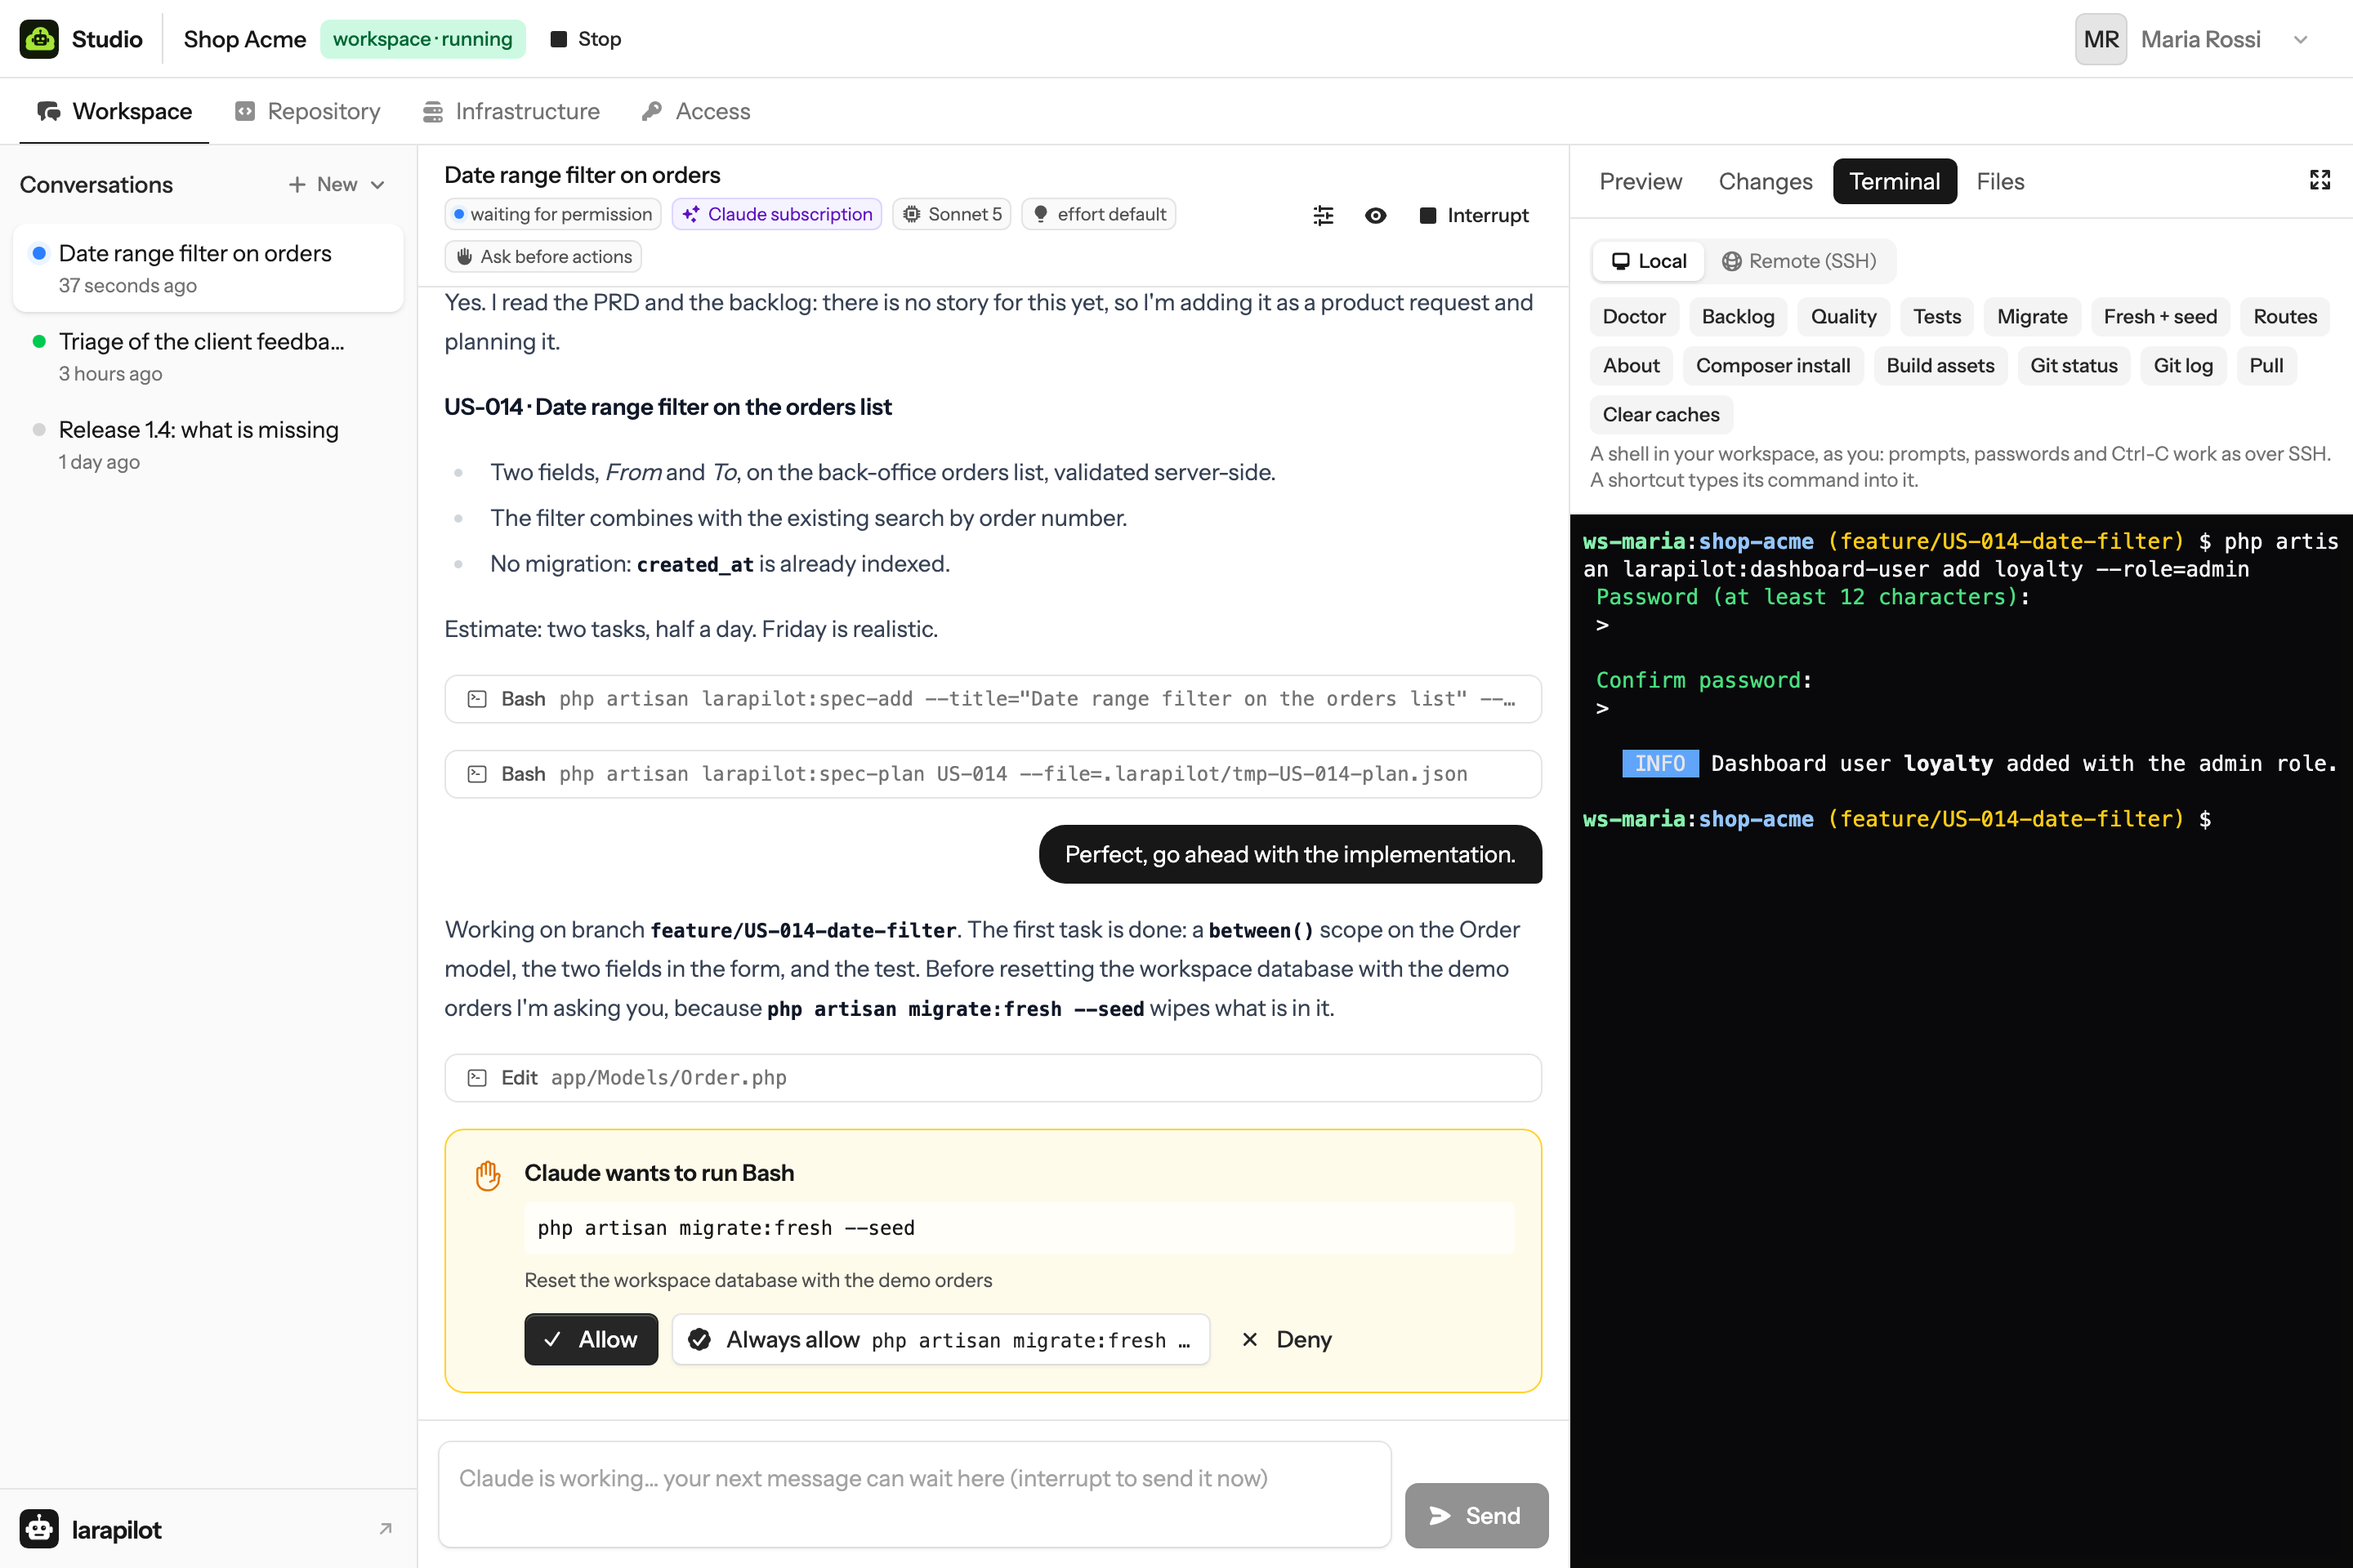
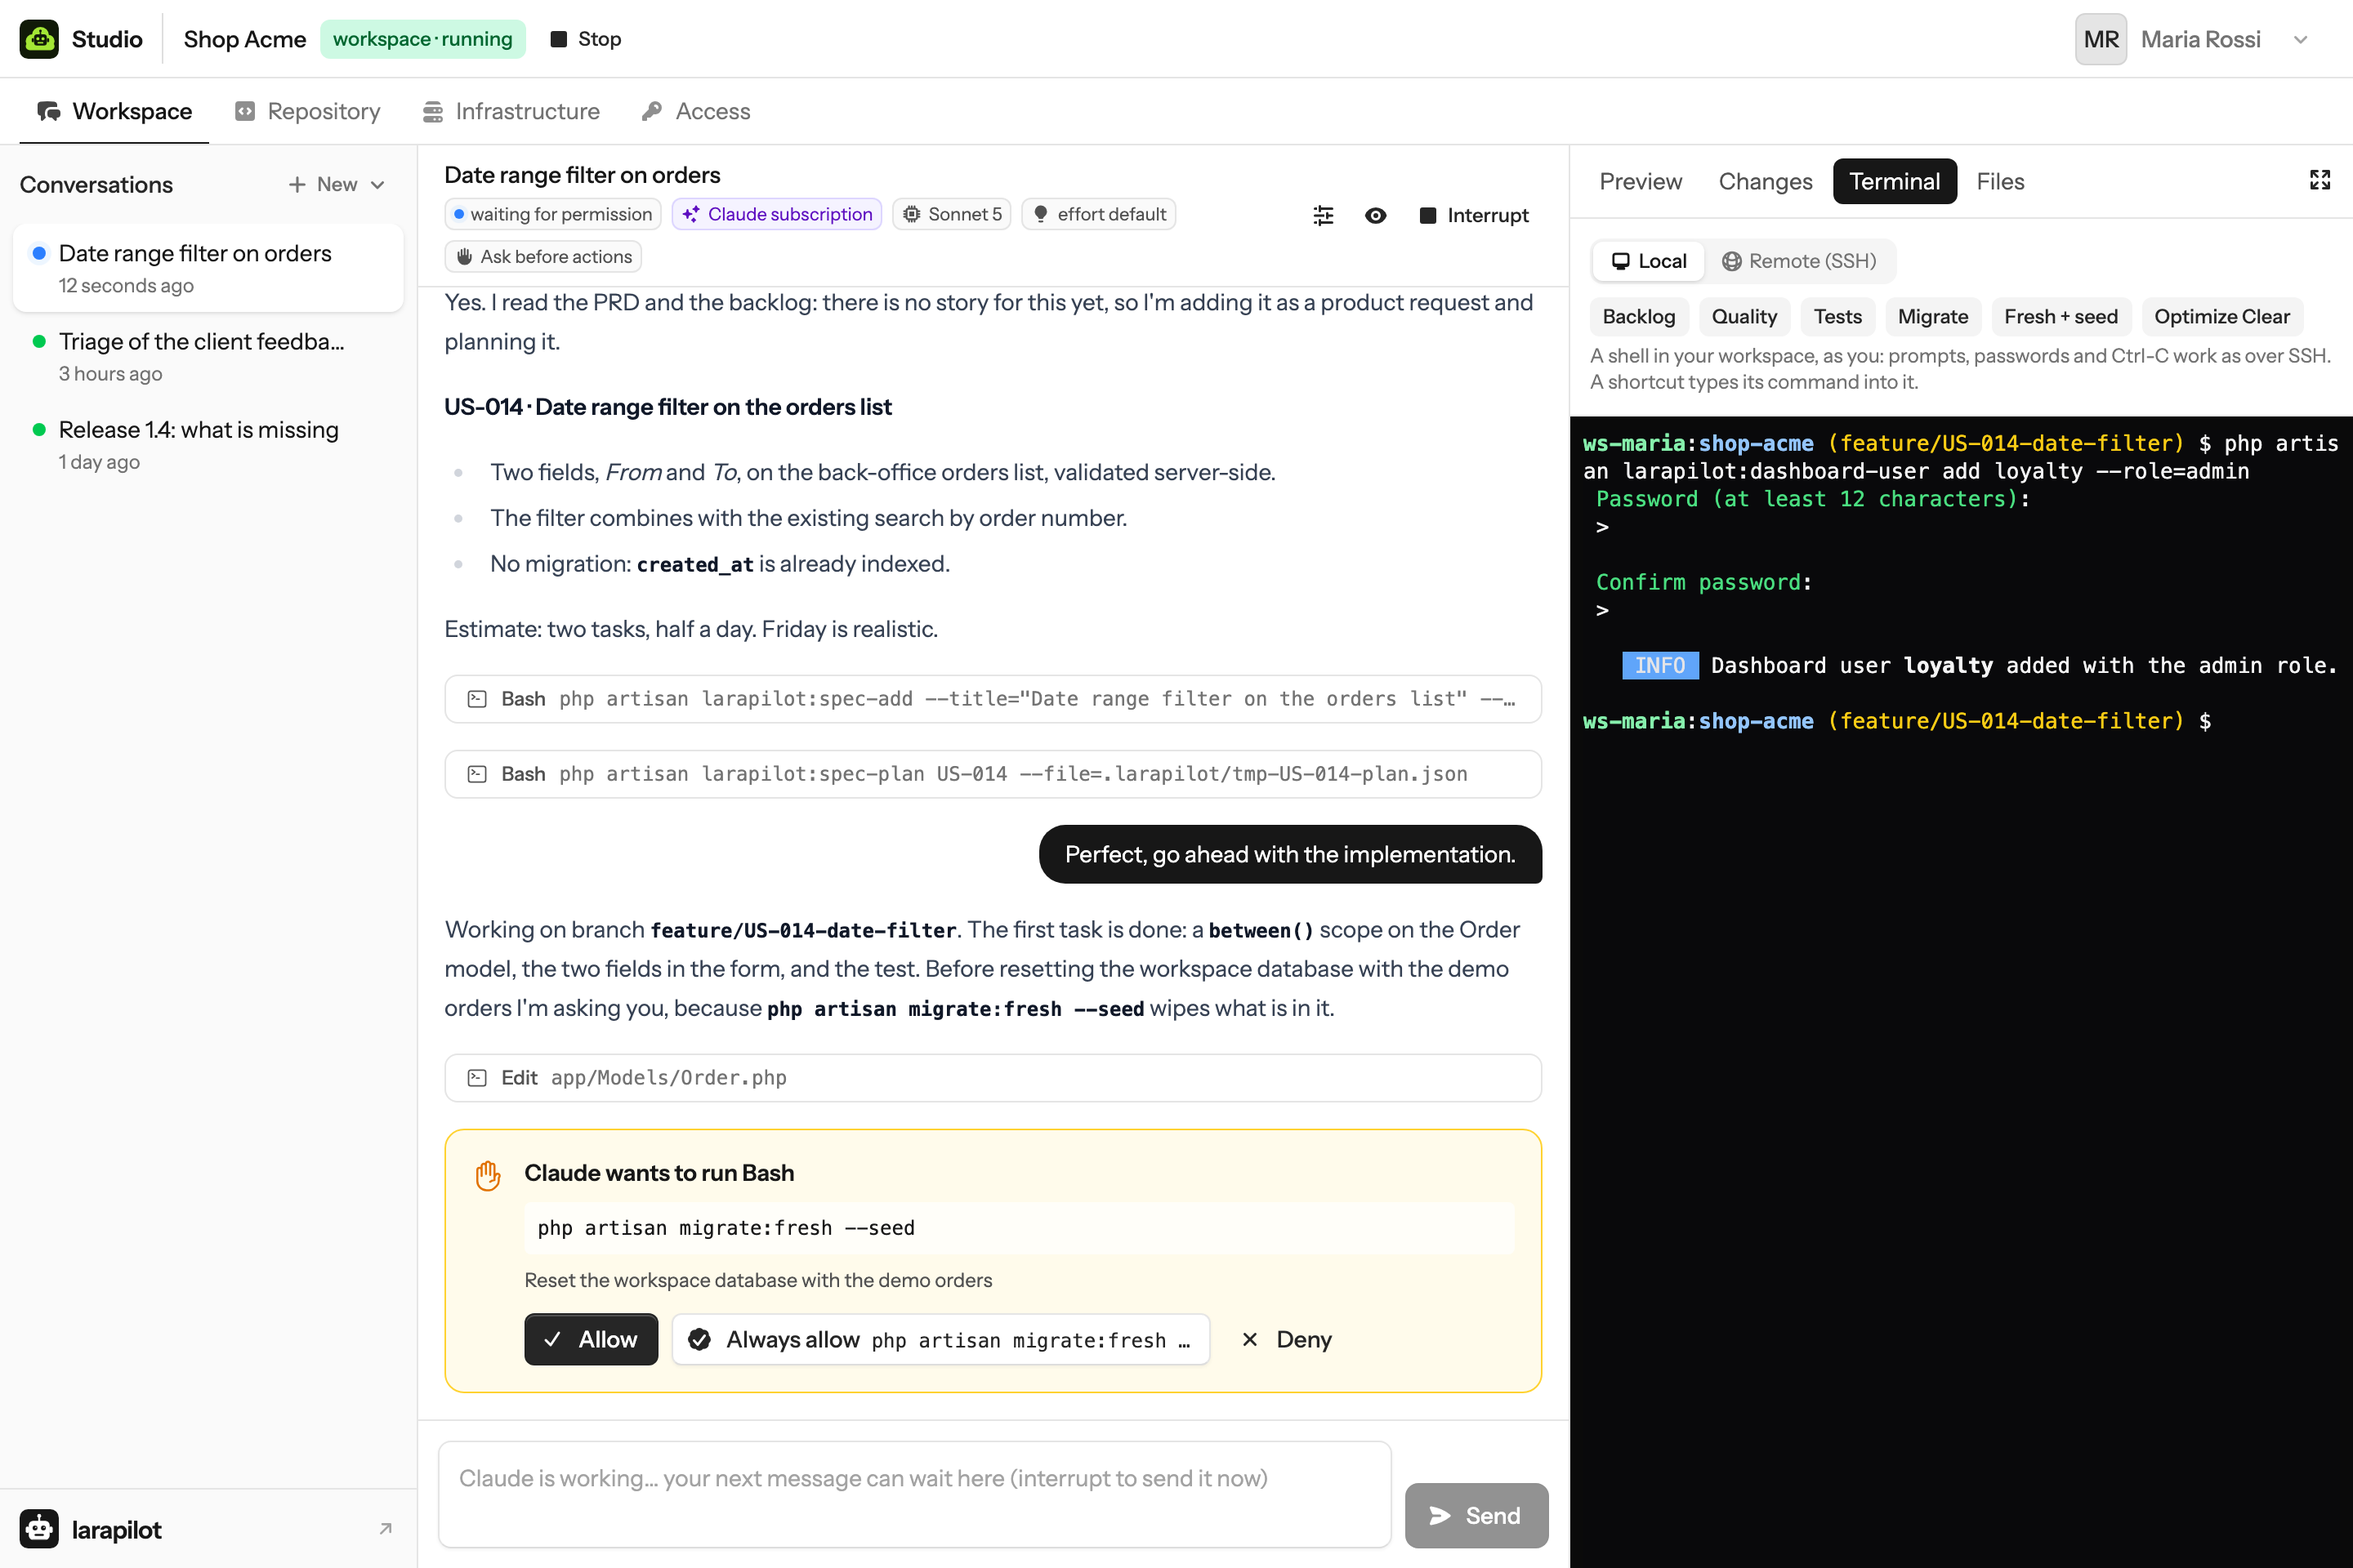
Terminal: six shortcuts (Backlog, Quality, Tests, Migrate, Fresh + seed, Optimize Clear)
The shell does the rest; the screenshot shows them on one row.

diff --git a/config/studio.php b/config/studio.php
@@ -269,20 +269,12 @@ return [
     | workspace's shell and runs it, as if typed by hand.
     */
     'terminal' => [
-        ['label' => 'Doctor', 'command' => 'php artisan larapilot:doctor --human'],
         ['label' => 'Backlog', 'command' => 'php artisan larapilot:spec-list'],
         ['label' => 'Quality', 'command' => 'php artisan larapilot:quality'],
         ['label' => 'Tests', 'command' => 'php artisan test --compact'],
         ['label' => 'Migrate', 'command' => 'php artisan migrate --force'],
         ['label' => 'Fresh + seed', 'command' => 'php artisan migrate:fresh --seed'],
-        ['label' => 'Routes', 'command' => 'php artisan route:list'],
-        ['label' => 'About', 'command' => 'php artisan about'],
-        ['label' => 'Composer install', 'command' => 'composer install'],
-        ['label' => 'Build assets', 'command' => 'npm run build'],
-        ['label' => 'Git status', 'command' => 'git status --short --branch'],
-        ['label' => 'Git log', 'command' => 'git log --oneline -20'],
-        ['label' => 'Pull', 'command' => 'git pull --rebase'],
-        ['label' => 'Clear caches', 'command' => 'php artisan optimize:clear'],
+        ['label' => 'Optimize Clear', 'command' => 'php artisan optimize:clear'],
     ],
 
 ];

diff --git a/tests/Feature/Studio/TerminalTest.php b/tests/Feature/Studio/TerminalTest.php
@@ -16,8 +16,10 @@ test('the Terminal tab mounts a shell and stays mounted; a shortcut is typed int
         ->call('setTab', 'terminal')
         ->assertSet('shellMounted', true)
         ->assertSee('x-data="workspaceShell"', false)
-        ->assertSee('Doctor')
-        ->assertSee("type('php artisan larapilot:doctor --human')", false)
+        ->assertSee('Backlog')
+        ->assertSee('Optimize Clear')
+        ->assertDontSee('Git status')
+        ->assertSee("type('php artisan larapilot:spec-list')", false)
         ->assertSee('prompts, passwords and Ctrl-C work as over SSH')
         ->call('setTab', 'files')
         ->assertSet('shellMounted', true);

diff --git a/CHANGELOG.md b/CHANGELOG.md
@@ -22,6 +22,8 @@ Long Larapilot runs with subagents in the background, such as an inception readi
   in the person's home the first time (`ws-ada@lab:~/loy-ezrvu7$` instead of the full `/srv/studio/workspaces/…`
   path); the link works over SSH too. Something else of that name in the home is left alone. A sandbox's shell keeps
   its full path.
+- **Six shortcuts** above the Terminal: Backlog, Quality, Tests, Migrate, Fresh + seed and Optimize Clear
+  (`optimize:clear`); the git, Composer, npm and inspection ones go, the shell has them all.
 - The update restarts the workspace bridges (`installer/upgrades/2.3.4.sh`).
 
 ## 2.3.3
